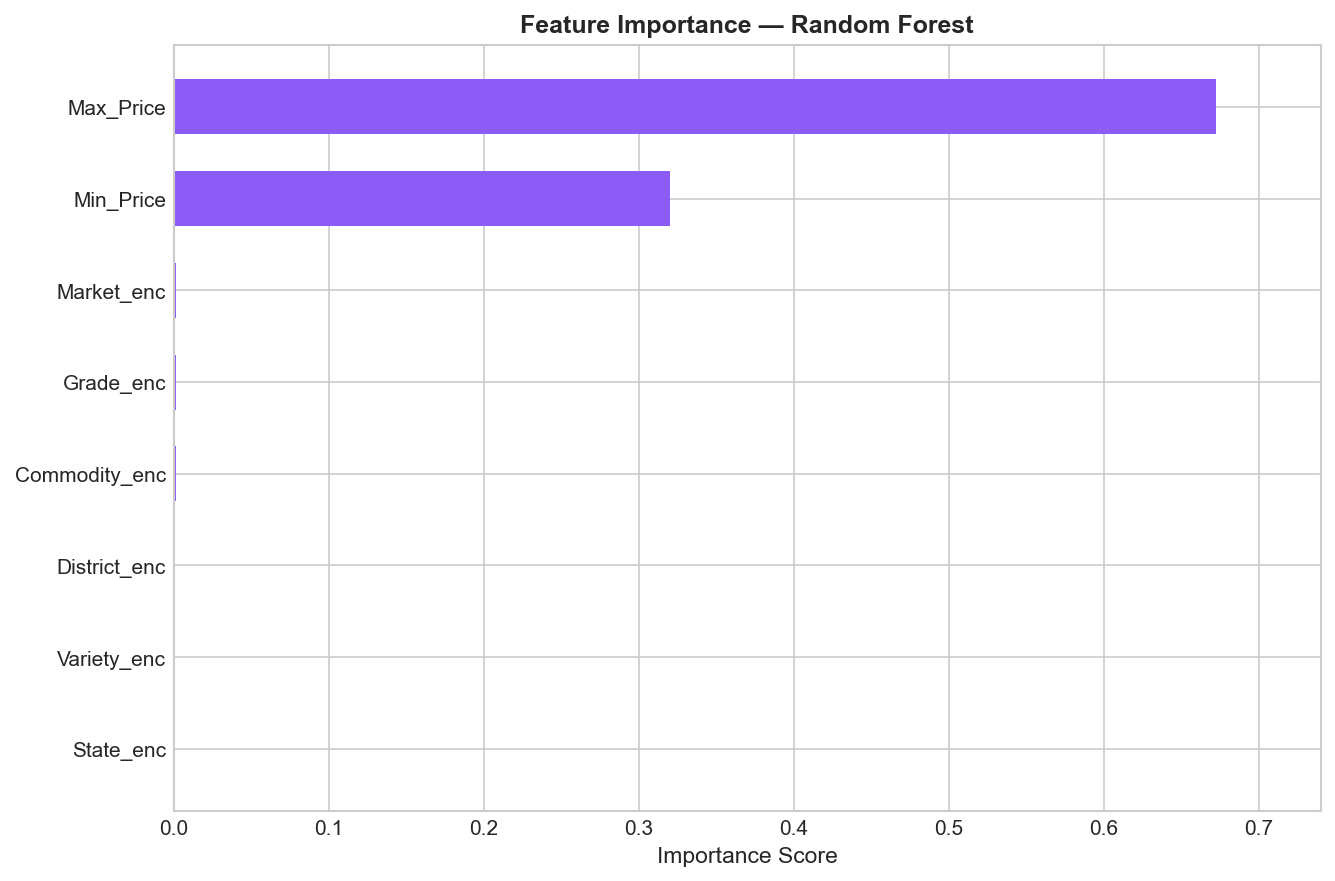
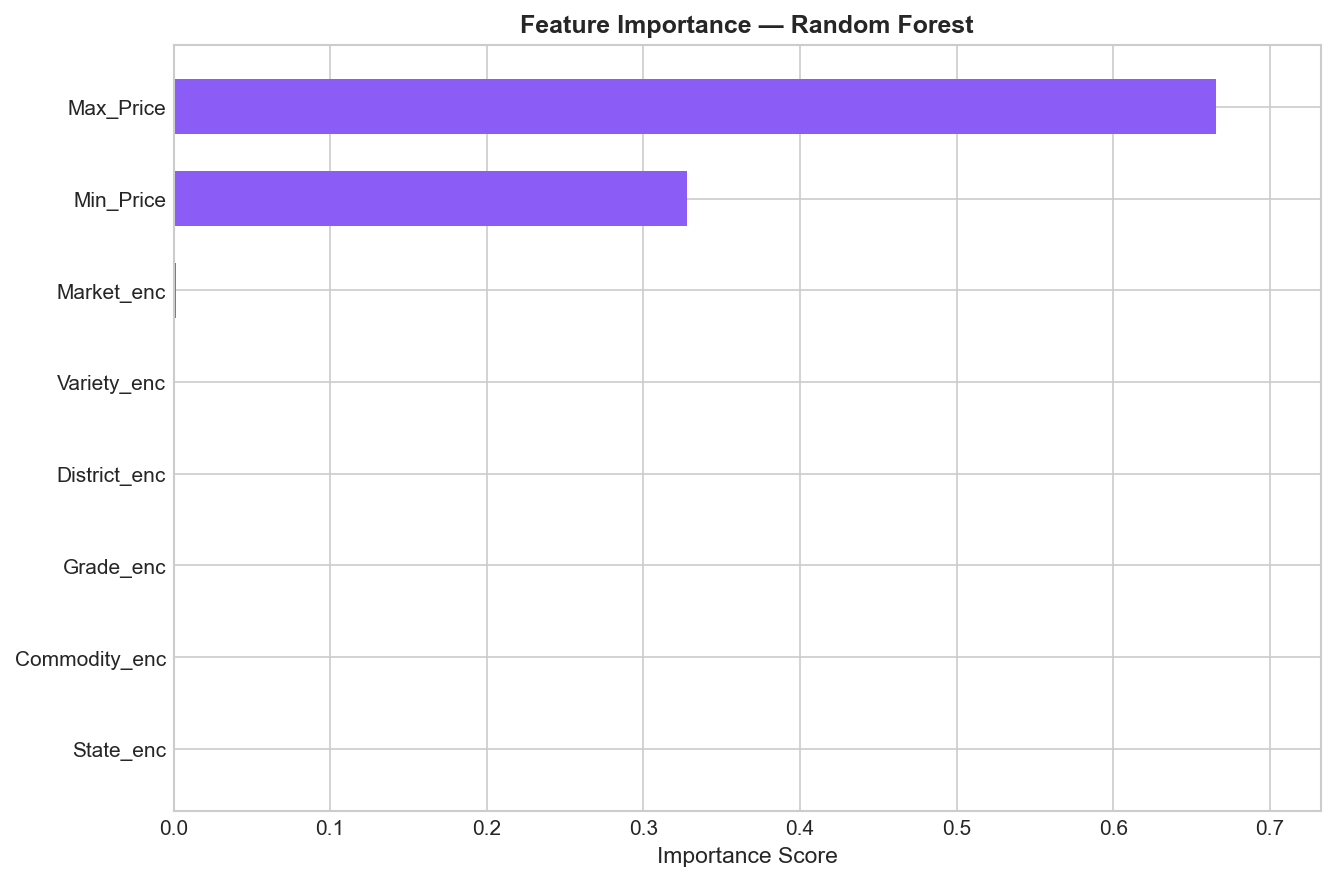
fix: Vercel deployment - lazy loading, numpy/sklearn version fix, static file serving

diff --git a/app.py b/app.py
@@ -8,34 +8,53 @@ import pickle, json, os
 from sklearn.preprocessing import LabelEncoder
 
 app = Flask(__name__)
-BASE = os.path.dirname(__file__)
+BASE = os.path.dirname(os.path.abspath(__file__))
 
-# Load model & summary
-with open(os.path.join(BASE, 'models/best_model.pkl'), 'rb') as f:
-    pkg = pickle.load(f)
-model    = pkg['model']
-encoders = pkg['encoders']
-features = pkg['features']
-model_name = pkg['model_name']
+# ── LAZY RESOURCE LOADING ────────────────────────────────────────────────────
+# Load on first request instead of at import time — avoids cold-start crashes
+# on Vercel serverless where file paths may not resolve at module load time.
+_resources = {}
 
-with open(os.path.join(BASE, 'models/summary.json')) as f:
-    summary = json.load(f)
+def get_resources():
+    if _resources:
+        return _resources
+    with open(os.path.join(BASE, 'models', 'best_model.pkl'), 'rb') as f:
+        pkg = pickle.load(f)
+    _resources['model']      = pkg['model']
+    _resources['encoders']   = pkg['encoders']
+    _resources['features']   = pkg['features']
+    _resources['model_name'] = pkg['model_name']
 
-df_raw = pd.read_csv(os.path.join(BASE, 'data/commodity_prices.csv'))
-df_raw.columns = [c.replace('_x0020_', '_') for c in df_raw.columns]
+    with open(os.path.join(BASE, 'models', 'summary.json')) as f:
+        _resources['summary'] = json.load(f)
+
+    df = pd.read_csv(os.path.join(BASE, 'data', 'commodity_prices.csv'))
+    df.columns = [c.replace('_x0020_', '_') for c in df.columns]
+    _resources['df_raw'] = df
+    return _resources
 
 # ── ROUTES ──────────────────────────────────────────────────────────────────
 
 @app.route('/')
 def index():
-    return render_template('index.html', summary=summary)
+    r = get_resources()
+    return render_template('index.html', summary=r['summary'])
 
 @app.route('/charts')
 def charts():
-    return render_template('charts.html', summary=summary)
+    r = get_resources()
+    return render_template('charts.html', summary=r['summary'])
 
 @app.route('/predict', methods=['GET', 'POST'])
 def predict():
+    r = get_resources()
+    df_raw     = r['df_raw']
+    encoders   = r['encoders']
+    features   = r['features']
+    model      = r['model']
+    model_name = r['model_name']
+    summary    = r['summary']
+
     commodities = sorted(df_raw['Commodity'].unique().tolist())
     states      = sorted(df_raw['State'].unique().tolist())
     grades      = sorted(df_raw['Grade'].unique().tolist())
@@ -85,10 +104,17 @@ def predict():
 
 @app.route('/stats')
 def statistics():
-    return render_template('stats.html', summary=summary)
+    r = get_resources()
+    return render_template('stats.html', summary=r['summary'])
 
 @app.route('/api/predict', methods=['POST'])
 def api_predict():
+    r = get_resources()
+    df_raw     = r['df_raw']
+    encoders   = r['encoders']
+    features   = r['features']
+    model      = r['model']
+    model_name = r['model_name']
     data = request.get_json() or {}
     try:
         row = {}
@@ -115,6 +141,12 @@ def api_predict():
 
 @app.route('/api/compare', methods=['POST'])
 def api_compare():
+    r = get_resources()
+    df_raw     = r['df_raw']
+    encoders   = r['encoders']
+    features   = r['features']
+    model      = r['model']
+    model_name = r['model_name']
     data = request.get_json() or {}
     selected_commodities = data.get('commodities', ['Wheat', 'Onion', 'Tomato', 'Potato', 'Apple'])
     if not isinstance(selected_commodities, list) or len(selected_commodities) == 0:
@@ -174,7 +206,8 @@ def api_compare():
 
 @app.route('/api/summary')
 def api_summary():
-    return jsonify(summary)
+    r = get_resources()
+    return jsonify(r['summary'])
 
 if __name__ == '__main__':
     import socket

diff --git a/api/index.py b/api/index.py
@@ -1,1 +1,9 @@
+import sys
+import os
+
+# Add project root to path so app.py can be found
+sys.path.insert(0, os.path.dirname(os.path.dirname(os.path.abspath(__file__))))
+
 from app import app
+
+# Vercel expects the WSGI callable to be named 'app'
